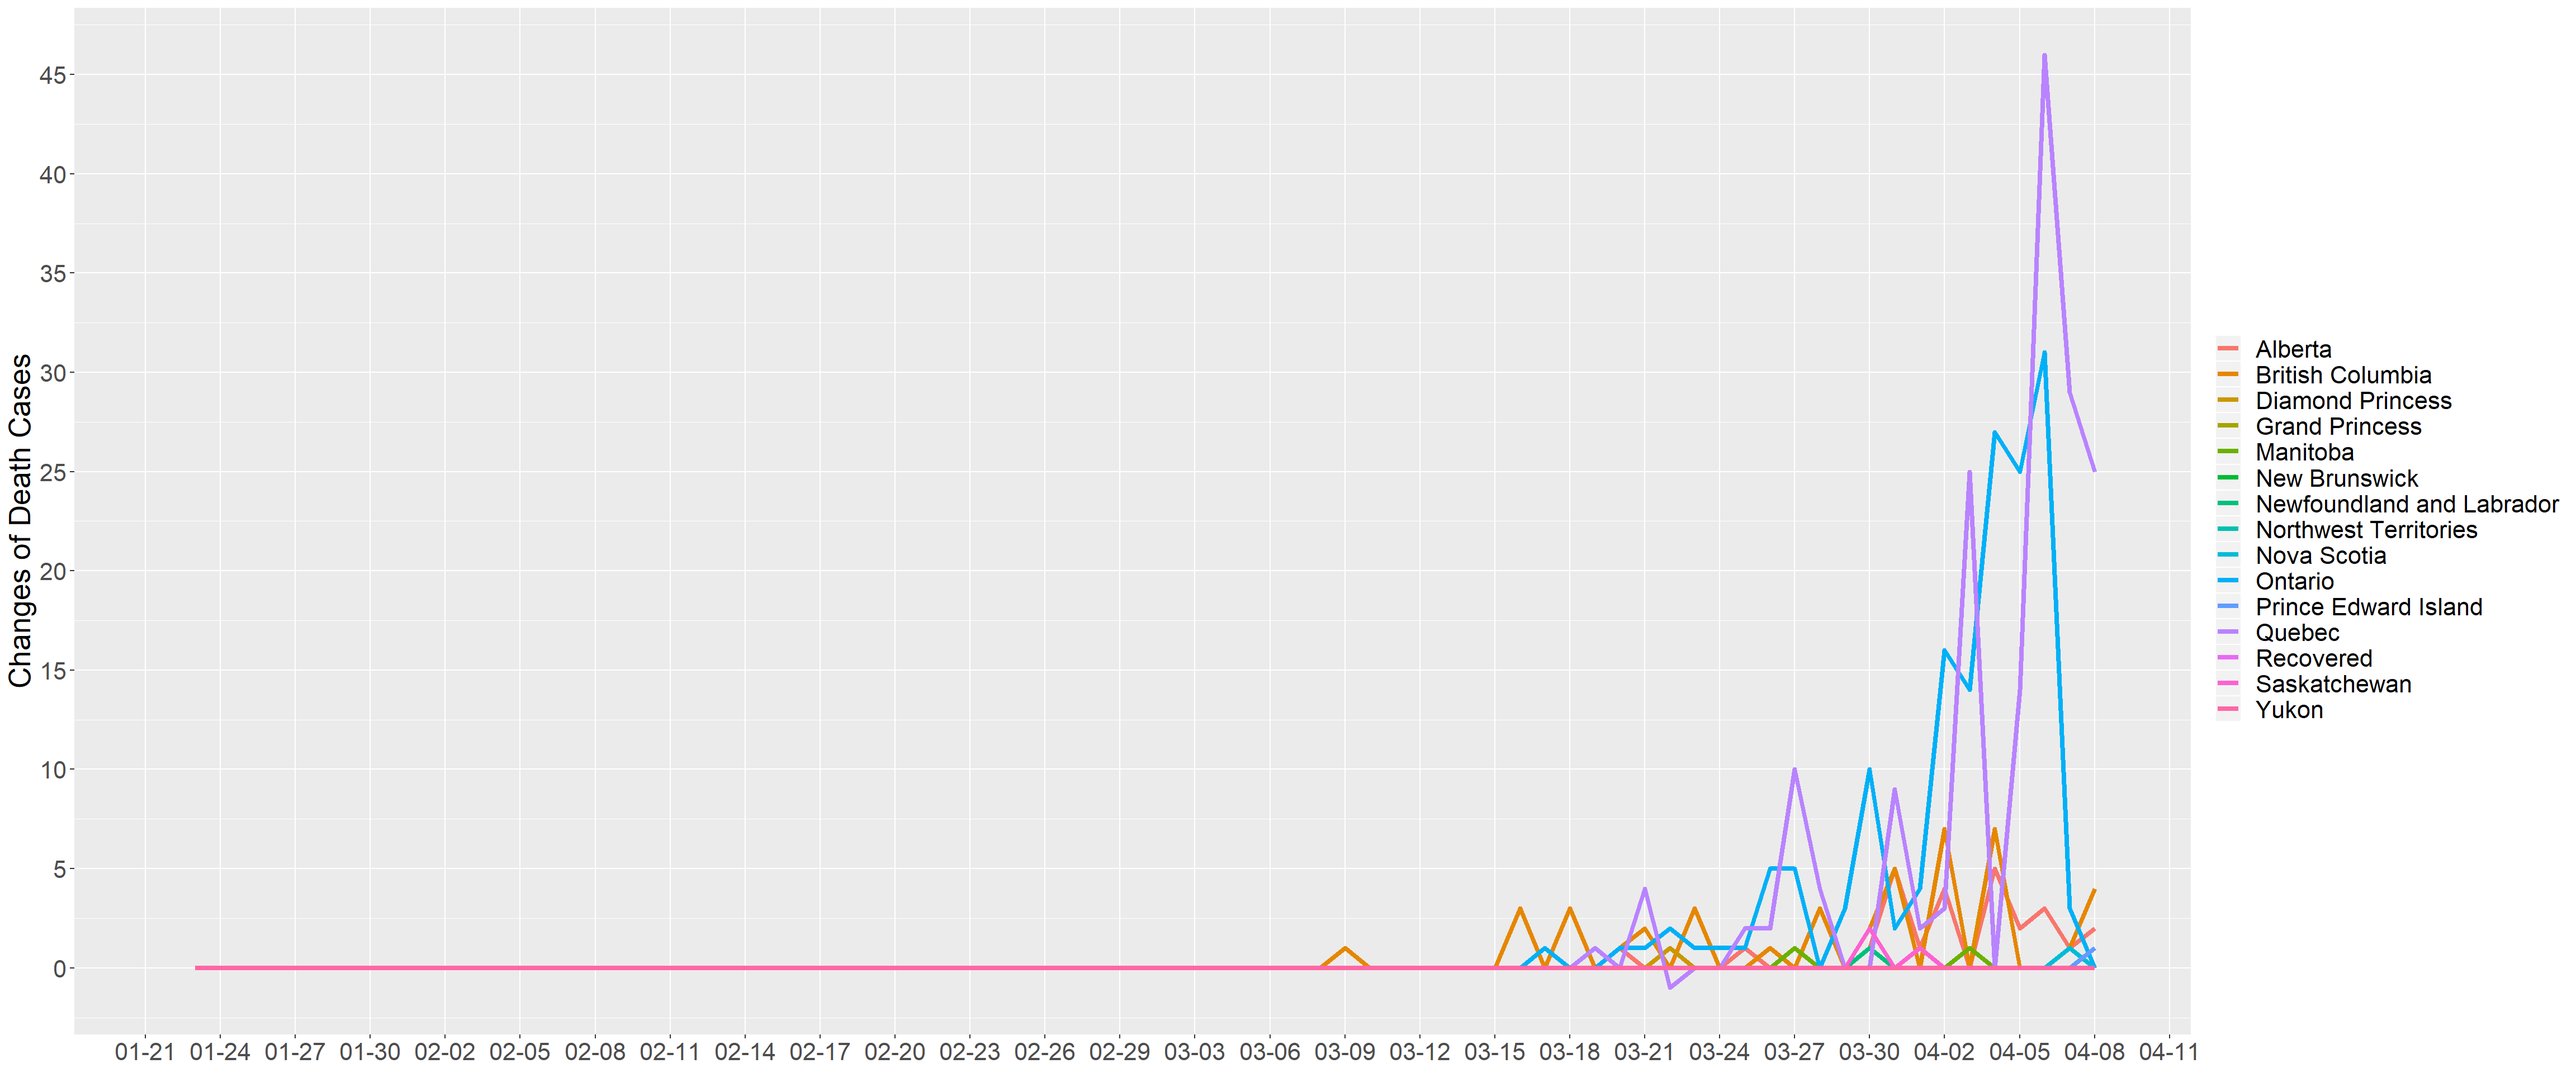
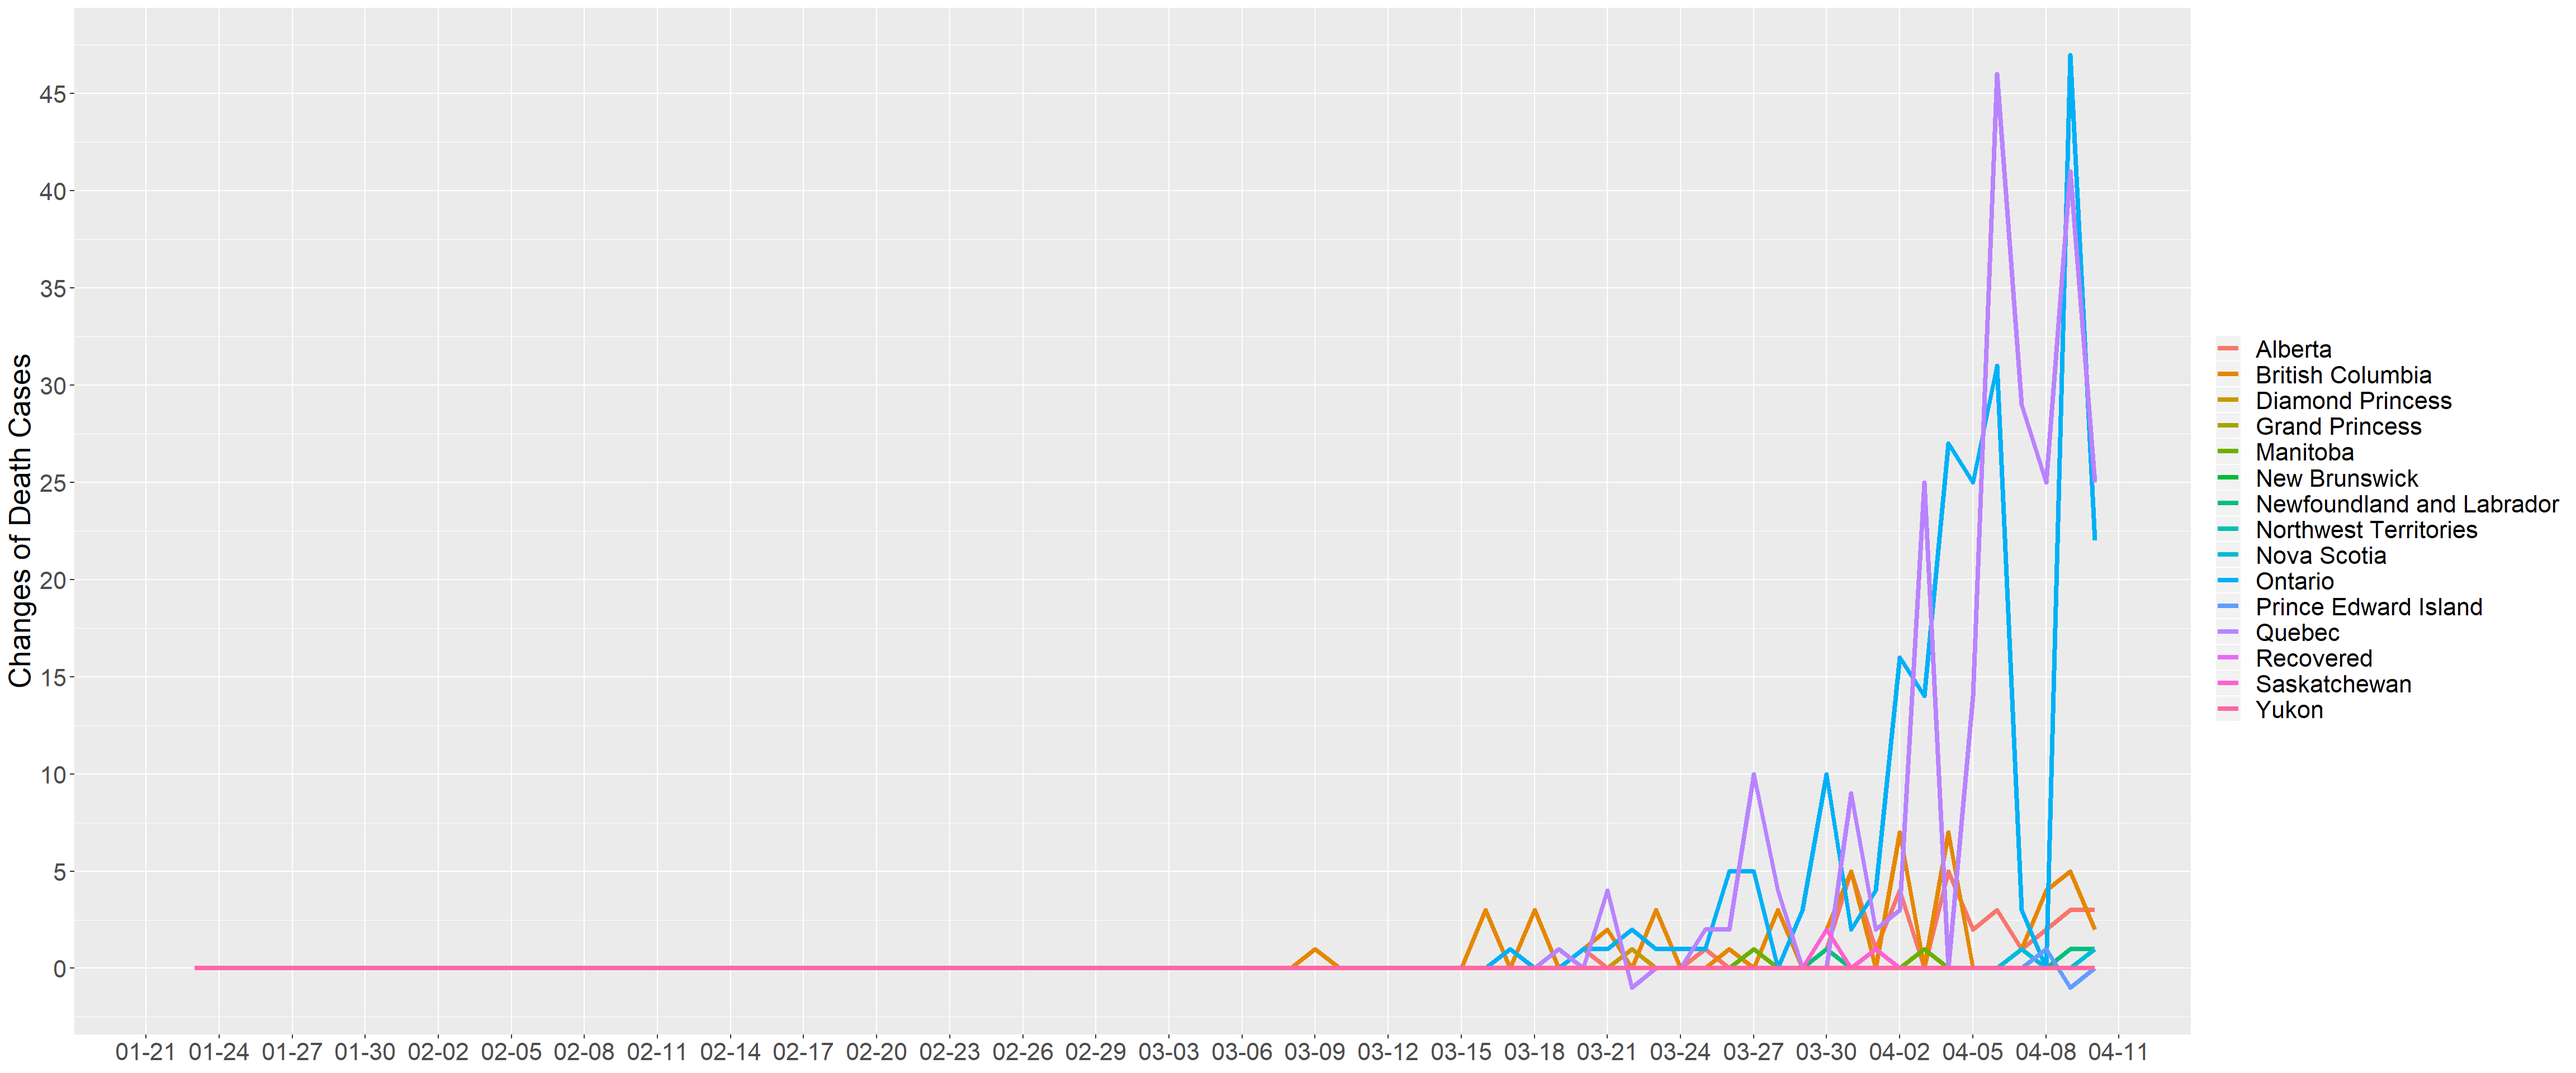
Update April 10

diff --git a/COVID-19-EDA/COVID-19-EDA.html b/COVID-19-EDA/COVID-19-EDA.html
@@ -10,7 +10,7 @@
 
 <meta name="author" content="Iris Jiang" />
 
-<meta name="date" content="2020-04-09" />
+<meta name="date" content="2020-04-10" />
 
 <title>COVID-19 Exploratory Data Analysis</title>
 
@@ -83,7 +83,7 @@ $(document).ready(function () {
     
     <div id="postamble" data-toggle="wy-nav-shift" class="status">
               <p class="author"><span class="glyphicon glyphicon-user"></span> Iris Jiang</p>
-                  <p class="date"><span class="glyphicon glyphicon-calendar"></span> April 09, 2020</p>
+                  <p class="date"><span class="glyphicon glyphicon-calendar"></span> April 10, 2020</p>
         </div>
 </div>
 
